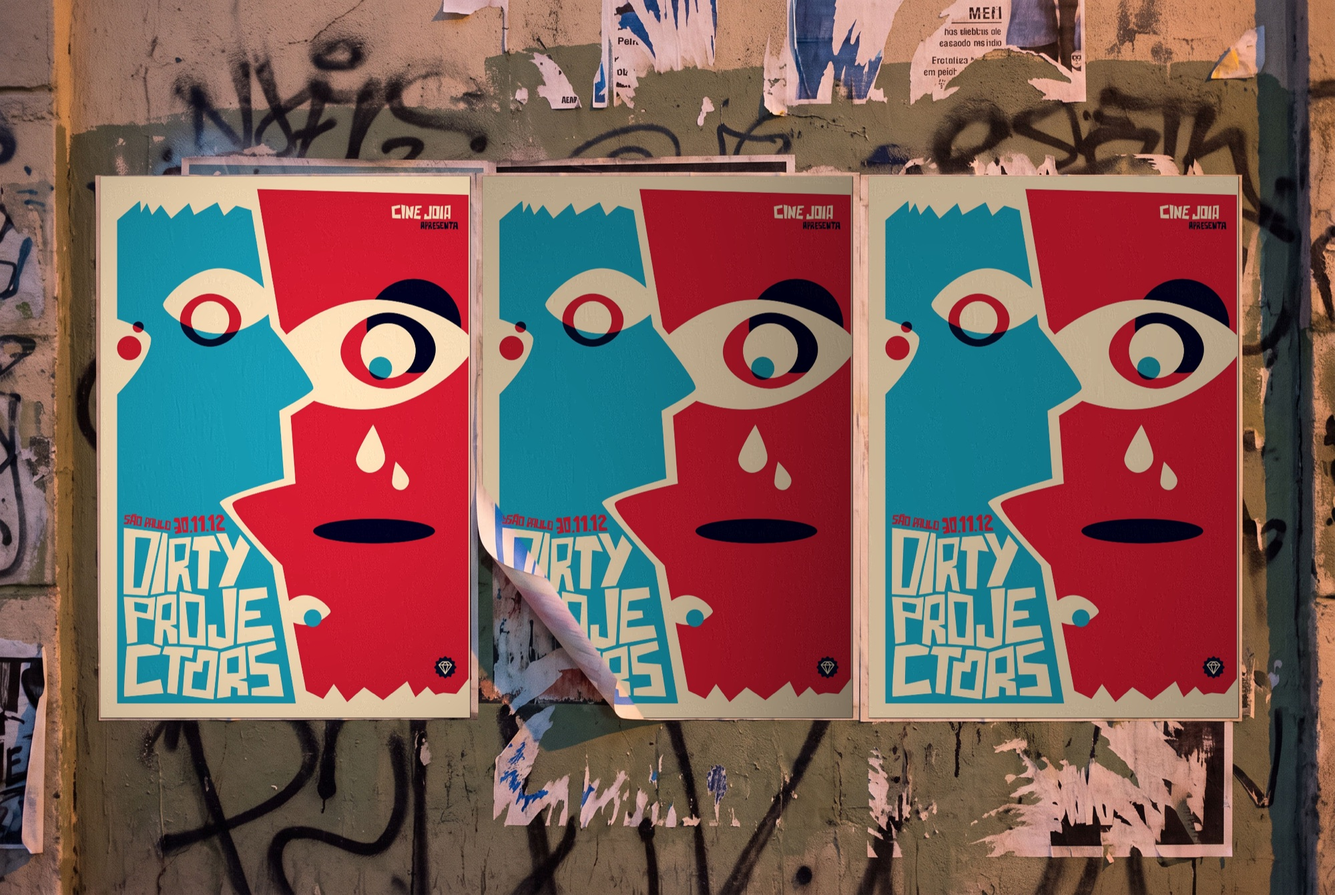
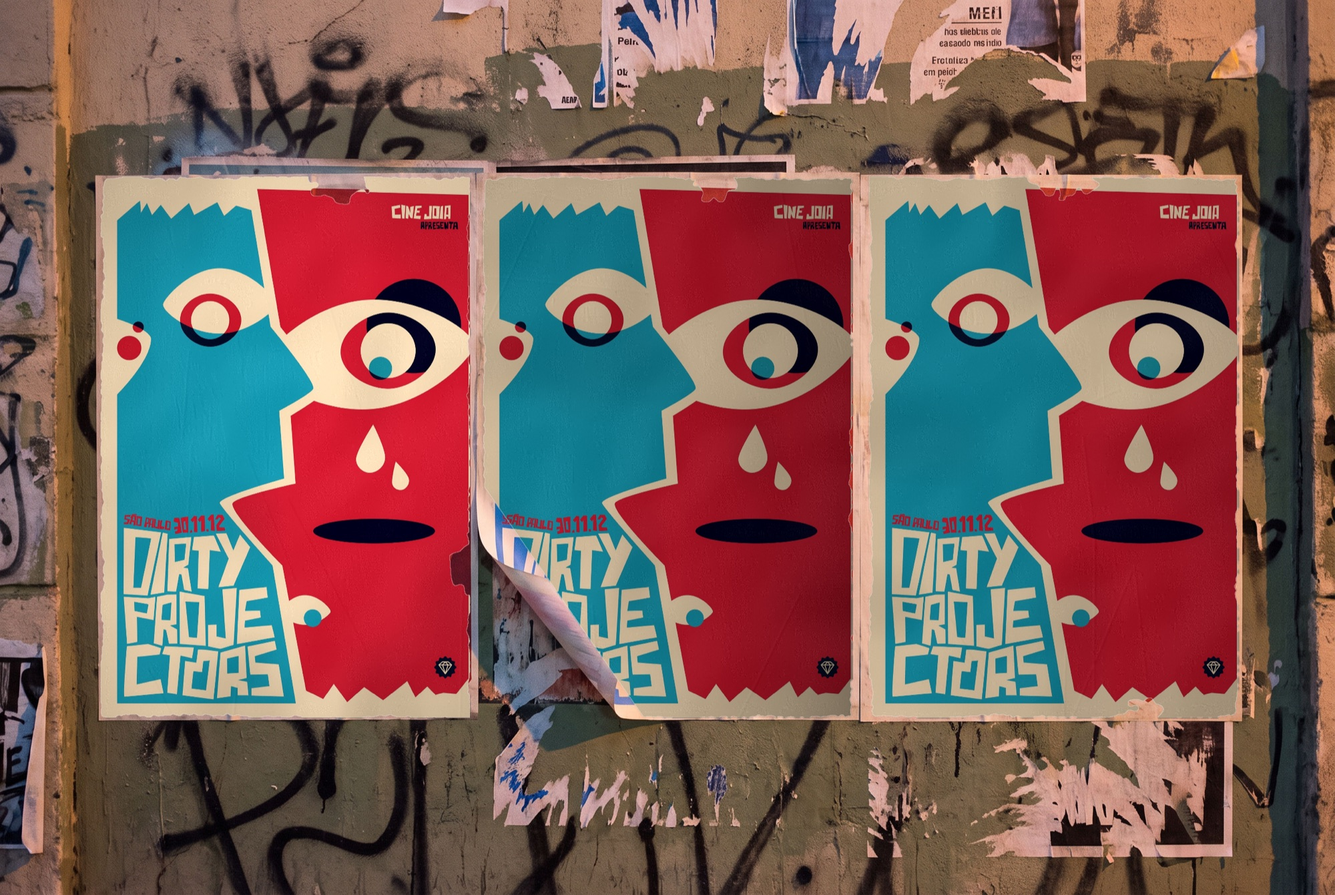
DJ Shadow: round die-cut stickers, wheat-paste texture on pasted mockups, the night (photos, videos), Dubstrong's set; SoundCloud block

diff --git a/js/content.js b/js/content.js
@@ -959,14 +959,46 @@ window.SITE = {
         { src: "images/dj-shadow/detail-x.jpg", ar: "1000/664", col: 1, span: 4 },
         { src: "images/dj-shadow/detail-x2.jpg", ar: "1000/664", col: 5, span: 4 },
         { src: "images/dj-shadow/detail-z.jpg", ar: "1000/664", col: 9, span: 4 },
-        // Mockups: Flora scenes with the real artwork composited on top, so every text is the original
+        // Mockups: Flora scenes with the real artwork composited on top, so every text is the original; the pasted ones
+        // get torn edges, paste bubbles and creases (Felipe, Oct 29 2026: "muito flat")
         { chapter: { en: "04 · Liberdade", pt: "04 · Liberdade" }, kicker: { en: "Mockups", pt: "Mockups" }, grid: "fluxo", fullWidthIntro: true,
           head: { en: "Around *the venue.*", pt: "Em volta *da casa.*" },
-          text: { en: "Cine Joia sits in Liberdade, São Paulo's Japanese quarter. The poster taken out there: at the door of the cinema, in the rain under the red lanterns and as stickers on a street box.", pt: "O Cine Joia fica na Liberdade, o bairro japonês de São Paulo. O pôster levado para lá: na porta do cinema, na chuva sob as lanternas vermelhas e como adesivos numa caixa de luz." } },
-        { src: "images/dj-shadow/mockup-cine-joia-bw.jpg", ar: "1611/2000", col: 1, span: 4, caption: { en: "At the door · mockup", pt: "Na porta · mockup" } },
-        { src: "images/dj-shadow/mockup-night.jpg", ar: "1611/2000", col: 5, span: 4, caption: { en: "In the rain · mockup", pt: "Na chuva · mockup" } },
-        { src: "images/dj-shadow/mockup-stickers-versions.jpg", ar: "1611/2000", col: 9, span: 4, caption: { en: "Stickers · mockup", pt: "Adesivos · mockup" } },
-        { chapter: { en: "05 · Listen", pt: "05 · Ouça" }, kicker: { en: "Sample-based", pt: "Feito de samples" }, grid: "trilho",
+          text: { en: "Cine Joia sits in Liberdade, São Paulo's Japanese quarter. The poster taken out there: at the door of the cinema and wheat-pasted in the rain, under the red lanterns.", pt: "O Cine Joia fica na Liberdade, o bairro japonês de São Paulo. O pôster levado para lá: na porta do cinema e colado na chuva, sob as lanternas vermelhas." } },
+        { src: "images/dj-shadow/mockup-cine-joia-bw.jpg", ar: "1611/2000", col: 1, span: 6, caption: { en: "At the door · mockup", pt: "Na porta · mockup" } },
+        { src: "images/dj-shadow/mockup-night.jpg", ar: "1611/2000", col: 7, span: 6, caption: { en: "In the rain · mockup", pt: "Na chuva · mockup" } },
+        // Round die-cut stickers: only the circle and its DJ badge, in the black, magenta and orange "A" versions
+        { chapter: { en: "05 · Stickers", pt: "05 · Adesivos" }, kicker: { en: "Die-cut · mockups", pt: "Recorte · mockups" }, grid: "fluxo", fullWidthIntro: true,
+          head: { en: "Just *the circle.*", pt: "Só *o círculo.*" },
+          text: { en: "The circle on its own, as round die-cut stickers in black, magenta and yellow: on a street box, on the back of a sign in Liberdade and on a skateboard.", pt: "O círculo sozinho, como adesivos redondos em preto, magenta e amarelo: numa caixa de luz, atrás de uma placa na Liberdade e num skate." } },
+        { src: "images/dj-shadow/stickers-box.jpg", ar: "1611/2000", col: 1, span: 4, caption: { en: "Street box · mockup", pt: "Caixa de luz · mockup" } },
+        { src: "images/dj-shadow/stickers-sign.jpg", ar: "1611/2000", col: 5, span: 4, caption: { en: "Street sign · mockup", pt: "Placa · mockup" } },
+        { src: "images/dj-shadow/stickers-skate.jpg", ar: "1611/2000", col: 9, span: 4, caption: { en: "Skateboard · mockup", pt: "Skate · mockup" } },
+        // The night: facts from Cine Joia's own film (YouTube description) and Popload's announcement (Aug 2012; its
+        // picture is a different flyer, so it is not shown). Photos: Serjão Carvalho on Flickr, all rights reserved,
+        // credited and linked; Felipe to ask him (Oct 29 2026).
+        { grid: "trilho", chapter: { en: "06 · The night", pt: "06 · A noite" }, kicker: { en: "Friday, 19.10.12", pt: "Sexta, 19.10.12" },
+          head: { en: "Chocolate *turns ten.*", pt: "A Chocolate *faz dez anos.*" },
+          text: { en: "The first night of the 10th anniversary of Chocolate, one of São Paulo's main hip hop parties. Its founders, Guigo Lima and Kadu Mattar, brought DJ Shadow to Cine Joia, with Dubstrong, Nuts and Tamenpi on the decks the same night, the eve of Planeta Terra.", pt: "A primeira noite dos 10 anos da Chocolate, uma das principais festas de hip hop de São Paulo. Os criadores, Guigo Lima e Kadu Mattar, trouxeram o DJ Shadow ao Cine Joia, com Dubstrong, Nuts e Tamenpi nas pick-ups na mesma noite, véspera do Planeta Terra." } },
+        { roomsAuto: true, rooms: [
+          { name: { en: "DJ Shadow at Cine Joia", pt: "DJ Shadow no Cine Joia" }, items: [
+            { src: "images/dj-shadow/show/show-04.jpg", ar: "1024/591", caption: { en: "Cine Joia, 19.10.12 · photo: Serjão Carvalho", pt: "Cine Joia, 19.10.12 · foto: Serjão Carvalho" } },
+            { src: "images/dj-shadow/show/show-03.jpg", ar: "1024/679", caption: { en: "Cine Joia, 19.10.12 · photo: Serjão Carvalho", pt: "Cine Joia, 19.10.12 · foto: Serjão Carvalho" } },
+            { src: "images/dj-shadow/show/show-05.jpg", ar: "1024/726", caption: { en: "Cine Joia, 19.10.12 · photo: Serjão Carvalho", pt: "Cine Joia, 19.10.12 · foto: Serjão Carvalho" } },
+            { src: "images/dj-shadow/show/show-02.jpg", ar: "1024/607", caption: { en: "Cine Joia, 19.10.12 · photo: Serjão Carvalho", pt: "Cine Joia, 19.10.12 · foto: Serjão Carvalho" } },
+            { src: "images/dj-shadow/show/show-01.jpg", ar: "1024/639", caption: { en: "Cine Joia, 19.10.12 · photo: Serjão Carvalho", pt: "Cine Joia, 19.10.12 · foto: Serjão Carvalho" } }
+          ] },
+        ], ar: "3/2", col: 1, span: 12 },
+        { yt: "YYq4k9wMJfs", ar: "16/9", caption: { en: "“Chocolate 10 anos @ Cine Joia – DJ Shadow” · video: Cine Joia / YouTube (camera Henrique EDMX Montanari, edit Abner Palma)", pt: "“Chocolate 10 anos @ Cine Joia – DJ Shadow” · vídeo: Cine Joia / YouTube (câmera Henrique EDMX Montanari, montagem Abner Palma)" } },
+        { yt: "j-TbaO_Bxik", ar: "16/9", caption: { en: "The night, by the party · video: GuigoChocolate / YouTube", pt: "A noite, pela festa · vídeo: GuigoChocolate / YouTube" } },
+        { yt: "JTAPlO8-QeQ", ar: "16/9", caption: { en: "“Organ Donor”, from the crowd · video: MarcosB79 / YouTube", pt: "“Organ Donor”, da pista · vídeo: MarcosB79 / YouTube" } },
+        { episodeLink: { url: "https://www.flickr.com/photos/serjaocarvalho/albums/72157631839299293", title: { en: "More photos by Serjão Carvalho", pt: "Mais fotos de Serjão Carvalho" }, detail: { en: "Photos: Serjão Carvalho · Flickr", pt: "Fotos: Serjão Carvalho · Flickr" } } },
+        { episodeLink: { url: "https://www.popload.com.br/dj-shadow-tem-show-confirmado-no-cine-joia-em-sp", title: { en: "Read the announcement", pt: "Ler o anúncio" }, detail: { en: "Popload · August 2012", pt: "Popload · agosto de 2012" } } },
+        // Dubstrong's own recording of his set that night (SoundCloud), which Felipe loves
+        { chapter: { en: "07 · Dubstrong live", pt: "07 · Dubstrong ao vivo" }, kicker: { en: "Same night · SoundCloud", pt: "Mesma noite · SoundCloud" }, grid: "trilho",
+          head: { en: "Before *the Shadow.*", pt: "Antes *do Shadow.*" },
+          text: { en: "DJ Dubstrong recorded his set that night at Cine Joia, and put it online.", pt: "O DJ Dubstrong gravou o set dele naquela noite no Cine Joia e colocou no ar." } },
+        { soundcloud: "https://soundcloud.com/dubstrong/djdubstrong-live-chocolate10anos", h: 166, caption: { en: "DJ Dubstrong live @ Cine Joia, Chocolate 10 anos · SoundCloud", pt: "DJ Dubstrong ao vivo no Cine Joia, Chocolate 10 anos · SoundCloud" } },
+        { chapter: { en: "08 · Listen", pt: "08 · Ouça" }, kicker: { en: "Sample-based", pt: "Feito de samples" }, grid: "trilho",
           head: { en: "Built from *other records.*", pt: "Feito de *outros discos.*" },
           text: { en: "DJ Shadow builds his music from samples. Start with Endtroducing..... (1996) and “Midnight in a Perfect World”.", pt: "O DJ Shadow constrói a música a partir de samples. Comece pelo Endtroducing..... (1996) e por “Midnight in a Perfect World”." } },
         { spotify: "artist/5CE2IfdYZEQGIDsfiRm8SI", h: 452, caption: { en: "DJ Shadow on Spotify", pt: "DJ Shadow no Spotify" } },

diff --git a/js/main.js b/js/main.js
@@ -425,7 +425,7 @@
         return;
       }
       // A flip, strip or live page can take the pending text beside it
-      if (pend && (it.flip || it.rooms || it.strip || it.embed || it.yt || it.spotify)) { pairWith(block(it, p), it.side, !!it.featureWide); return; }
+      if (pend && (it.flip || it.rooms || it.strip || it.embed || it.yt || it.spotify || it.soundcloud)) { pairWith(block(it, p), it.side, !!it.featureWide); return; }
       closePend();
       // A text line pairs with the piece or flip that follows it
       if (it.text && !side) { pend = { html: `<p class="ltext side">${esc(L(it.text))}</p>`, solo: block(it, p) }; return; }
@@ -481,6 +481,8 @@
     // Spotify colours the player from the artwork (it can't take a custom colour); the dark theme (theme=0) keeps it
     // neutral on the themed pages (Felipe, Oct 29 2026: the green player clashed with the slate page).
     if (it.spotify) return `<figure class="fig sp" style="--sp-h:${+it.h || 452}px;${style}"><div class="ph"><iframe src="https://open.spotify.com/embed/${esc(it.spotify)}?utm_source=generator&theme=0" title="${esc(L(it.caption) || "Spotify")}" loading="lazy" allow="autoplay; clipboard-write; encrypted-media; fullscreen; picture-in-picture"></iframe></div>${it.caption ? `<figcaption class="mono muted">${esc(L(it.caption))}</figcaption>` : ""}</figure>`;
+    // A SoundCloud track in place (a live set, a mix): { soundcloud: "<track url>", h, caption }, played in the project accent
+    if (it.soundcloud) return `<figure class="fig sp" style="--sp-h:${+it.h || 166}px;${style}"><div class="ph"><iframe src="https://w.soundcloud.com/player/?url=${encodeURIComponent(it.soundcloud)}&color=${encodeURIComponent((p.theme && p.theme.accent) || "#1a2bff")}&auto_play=false&hide_related=true&show_comments=false&show_reposts=false&visual=false" title="${esc(L(it.caption) || "SoundCloud")}" loading="lazy" allow="autoplay"></iframe></div>${it.caption ? `<figcaption class="mono muted">${esc(L(it.caption))}</figcaption>` : ""}</figure>`;
     if (it.swap) return `<div class="swap-ba" style="${style}">${[["before", "old"], ["after", "new"]].map(([k, c]) =>
       `<p><span class="mono muted">${esc(T(k))}</span><b class="${c}">${esc(L(it.swap[k]))}</b></p>`).join("")}</div>`;
     if (it.word) return `<div class="word-def" style="${style}"><p class="word-big" style="--n:${[...it.word.glyph].length}"${it.word.lang ? ` lang="${esc(it.word.lang)}"` : ""} aria-hidden="true">${esc(it.word.glyph)}</p>

diff --git a/index.html b/index.html
@@ -107,7 +107,7 @@
 <article class="case gut" id="case" aria-live="polite"></article>
 <div class="wipe" id="wipe" aria-hidden="true"></div>
 
-<script src="js/content.js?v=20261030shadow2"></script>
-<script src="js/main.js?v=20261030shadow"></script>
+<script src="js/content.js?v=20261030shadow3"></script>
+<script src="js/main.js?v=20261030shadow3"></script>
 </body>
 </html>
